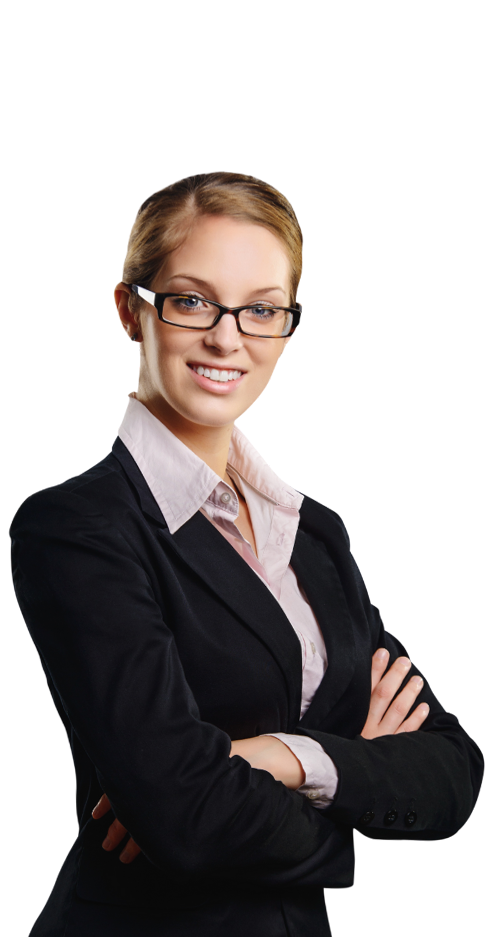
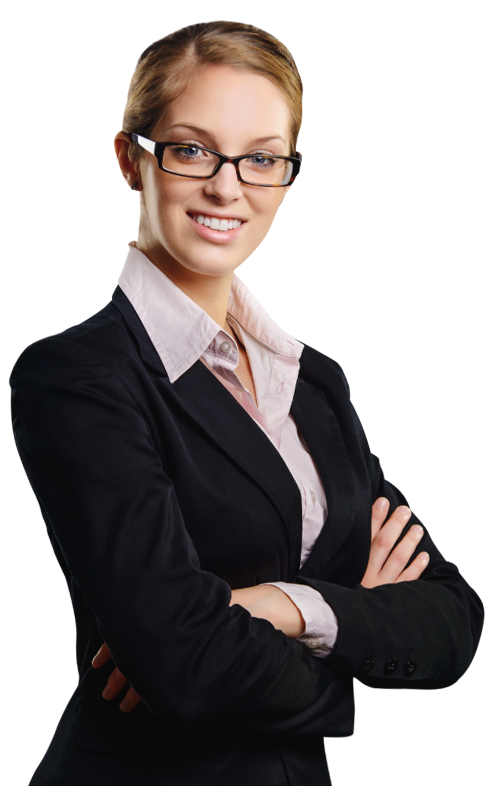
commit 4
Final Final commit of the night. Replacing images and trying to fix spacing issues.

Changed region(s): [[0.0, 0.0, 1.0, 0.9771], [0.1518, 0.8244, 0.3036, 0.9466], [0.0607, 0.8855, 0.1518, 1.0]]

diff --git a/index.html b/index.html
@@ -388,11 +388,11 @@ h5 {
 <!-- Home Page -->
 <table id="home" width="100%" class="mainbckgrndimg">
 	<tbody>
-	  <tr>
-		<td width="50%" style="text-align: center;">
-		 <img src="awwebphoto.png" alt="Image of a 22 year old woman known as Alexis Williams." width="500px" height="100%" ></div>
+	  <tr style="margin:0px; padding:0px;">
+		<td width="50%" style="text-align: center; margin:0px; padding:0px;">
+		 <img src="awwebphoto.png" alt="Image of a 22 year old woman known as Alexis Williams." width="500px" height="100%" >
 		</td>
-		<td width="50%" style="text-align: center;">
+		<td width="50%" style="text-align: center; margin:0px; padding:0px;">
          <h1 class="hometitle">CONNECTING WITH <br /> OTHERS TRHOUGH DESIGN.</h1>
 		 <h1 class="hometitle">CREATIVE THINKING <br /> MADE VISUAL.</h1>
          <p class="hometitle2">Alexis Williams | Website Designer</p>
@@ -578,11 +578,10 @@ Associated Systems Professionals<br />
 			</div>
 		</td>
 		<td width="40%" style="text-align: center;">
-		 <img src="workexpimage.png" width="100%" height="100%" >
+		 <img src="contactme.jpg" width="100%" height="100%" >
 		</td>
 	  </tr>
 	 </tbody>
 	</table>
-</div>
 </body>
 </html>
